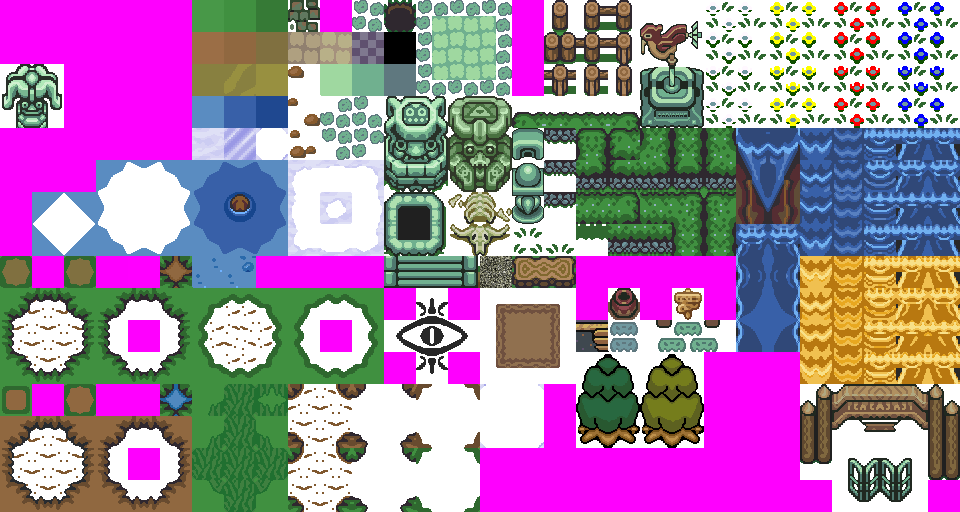
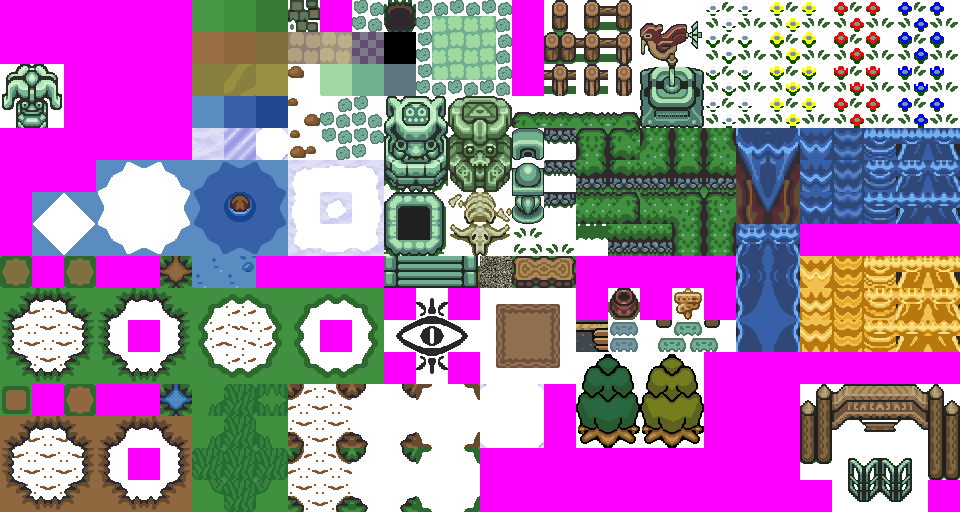
Fixed some gfx glitches in waterfall tiles. Made the waterfall animations more fluent. Added animation to golden water. Fixed a "typo" in /gmhelp_alter

Changed region(s): [[0.8125, 0.6875, 1.0, 0.75], [0.8125, 0.4375, 1.0, 0.5]]

diff --git a/src/games/stendhal/client/TileRenderer.java b/src/games/stendhal/client/TileRenderer.java
@@ -110,12 +110,12 @@ public class TileRenderer extends LayerRenderer {
 	}
 
 	private void createAnimateTiles() {
-		// Outside_0 = 0 - 478
-		// Outside_1 = 480 - 858
-		// Dungeon_0 = 860 - 1438
-		// Dungeon_1 = 1440 - 1818
-		// Interior_0 = 1820 - 2388
-		// Navigation = 2400 - 2400
+		// Outside_0 = 0 - 479
+		// Outside_1 = 480 - 959
+		// Dungeon_0 = 960 - 1439
+		// Dungeon_1 = 1440 - 1819
+		// Interior_0 = 1820 - 2389
+		// Navigation = 2390 - 2400
 		// Objects = 2400 - 2600
 		// Collision = 2600 - 2602
 		// Buildings_0 = 2602 - 2982
@@ -286,65 +286,64 @@ public class TileRenderer extends LayerRenderer {
 		addAnimatedTile(3270, new int[] { 3269, 3270, 3271, 3270 });
 		addAnimatedTile(3271, new int[] { 3269, 3270, 3271, 3270 });
 
+		// Golden water
+		addAnimatedTile(965, new int[] { 965, 995, 1025, 995 });
+		addAnimatedTile(995, new int[] { 965, 995, 1025, 995 });
+		addAnimatedTile(1025, new int[] { 965, 995, 1025, 995 });
+
+
+
 		// Waterfall start
-		addAnimatedTile(145, new int[] { 145, 175, 205, 235 });
-		addAnimatedTile(175, new int[] { 175, 205, 235, 145 });
-		addAnimatedTile(205, new int[] { 205, 235, 145, 175 });
-		addAnimatedTile(235, new int[] { 235, 145, 175, 205 });
+		addAnimatedTile(145, new int[] { 145, 175, 205 });
+		addAnimatedTile(175, new int[] { 175, 205, 235 });
+		addAnimatedTile(205, new int[] { 205, 235, 145 });
 
 		// Waterfall middle
-		addAnimatedTile(146, new int[] { 146, 176, 206, 236 });
-		addAnimatedTile(176, new int[] { 176, 206, 236, 146 });
-		addAnimatedTile(206, new int[] { 206, 236, 146, 176 });
-		addAnimatedTile(236, new int[] { 236, 146, 176, 206 });
+		addAnimatedTile(146, new int[] { 146, 176, 206 });
+		addAnimatedTile(176, new int[] { 176, 206, 236 });
+		addAnimatedTile(206, new int[] { 206, 236, 146 });
 
 		// Waterfall end
-		addAnimatedTile(147, new int[] { 147, 177, 207, 237 });
-		addAnimatedTile(177, new int[] { 177, 207, 237, 147 });
-		addAnimatedTile(207, new int[] { 207, 237, 147, 177 });
-		addAnimatedTile(237, new int[] { 237, 147, 177, 207 });
+		addAnimatedTile(147, new int[] { 147, 177, 207 });
+		addAnimatedTile(177, new int[] { 177, 207, 237 });
+		addAnimatedTile(207, new int[] { 207, 237, 147 });
 
 		// Waterfall end left
-		addAnimatedTile(148, new int[] { 148, 178, 208, 238 });
-		addAnimatedTile(178, new int[] { 178, 208, 238, 148 });
-		addAnimatedTile(208, new int[] { 208, 238, 148, 178 });
-		addAnimatedTile(238, new int[] { 238, 148, 178, 208 });
+		addAnimatedTile(148, new int[] { 148, 178, 208 });
+		addAnimatedTile(178, new int[] { 178, 208, 238 });
+		addAnimatedTile(208, new int[] { 208, 238, 148 });
 
 		// Waterfall end right
-		addAnimatedTile(149, new int[] { 149, 179, 209, 239 });
-		addAnimatedTile(179, new int[] { 179, 209, 239, 149 });
-		addAnimatedTile(209, new int[] { 209, 239, 149, 179 });
-		addAnimatedTile(239, new int[] { 239, 149, 179, 209 });
+		addAnimatedTile(149, new int[] { 149, 179, 209 });
+		addAnimatedTile(179, new int[] { 179, 209, 239 });
+		addAnimatedTile(209, new int[] { 209, 239, 149 });
 
 		// Waterfall golden start
-		addAnimatedTile(265, new int[] { 265, 295, 325, 355 });
-		addAnimatedTile(295, new int[] { 295, 325, 355, 265 });
-		addAnimatedTile(325, new int[] { 325, 355, 265, 295 });
-		addAnimatedTile(355, new int[] { 355, 265, 295, 325 });
+		addAnimatedTile(265, new int[] { 265, 295, 325 });
+		addAnimatedTile(295, new int[] { 295, 325, 355 });
+		addAnimatedTile(325, new int[] { 325, 355, 265 });
 
 		// Waterfall golden middle
-		addAnimatedTile(266, new int[] { 266, 296, 326, 356 });
-		addAnimatedTile(296, new int[] { 296, 326, 356, 266 });
-		addAnimatedTile(326, new int[] { 326, 356, 266, 296 });
-		addAnimatedTile(356, new int[] { 296, 326, 356, 266 });
+		addAnimatedTile(266, new int[] { 266, 296, 326 });
+		addAnimatedTile(296, new int[] { 296, 326, 356 });
+		addAnimatedTile(326, new int[] { 326, 356, 266 });
 
 		// Waterfall golden end
-		addAnimatedTile(267, new int[] { 267, 297, 327, 357 });
-		addAnimatedTile(297, new int[] { 297, 327, 357, 267 });
-		addAnimatedTile(327, new int[] { 327, 357, 267, 297 });
-		addAnimatedTile(357, new int[] { 357, 267, 297, 327 });
+		addAnimatedTile(267, new int[] { 267, 297, 327 });
+		addAnimatedTile(297, new int[] { 297, 327, 357 });
+		addAnimatedTile(327, new int[] { 327, 357, 267 });
 
 		// Waterfall golden end left
-		addAnimatedTile(268, new int[] { 268, 298, 328, 358 });
-		addAnimatedTile(298, new int[] { 298, 328, 358, 268 });
-		addAnimatedTile(328, new int[] { 328, 358, 268, 298 });
-		addAnimatedTile(358, new int[] { 358, 268, 298, 328 });
+		addAnimatedTile(268, new int[] { 268, 298, 328 });
+		addAnimatedTile(298, new int[] { 298, 328, 358 });
+		addAnimatedTile(328, new int[] { 328, 358, 268 });
 
 		// Waterfall golden end right
-		addAnimatedTile(269, new int[] { 269, 299, 329, 359 });
-		addAnimatedTile(299, new int[] { 299, 329, 359, 269 });
-		addAnimatedTile(329, new int[] { 329, 359, 269, 299 });
-		addAnimatedTile(359, new int[] { 359, 269, 299, 329 });
+		addAnimatedTile(269, new int[] { 269, 299, 329 });
+		addAnimatedTile(299, new int[] { 299, 329, 359 });
+		addAnimatedTile(329, new int[] { 329, 359, 269 });
+
+
 
 		// Golden Teleport
 		addAnimatedTile(1443, new int[] { 1443, 1444, 1445 });

diff --git a/src/games/stendhal/client/gui/StendhalChatLineListener.java b/src/games/stendhal/client/gui/StendhalChatLineListener.java
@@ -437,7 +437,7 @@ public class StendhalChatLineListener implements ActionListener, KeyListener {
 						"/alter <player> <attrib> <mode> <value> \tChange by SETting, ADDing or SUBtracting the stat of player",
 						"Some of the values that can be changed is: atk, atk_xp, def, def_xp, xp, outfit",
 						"When modifying the outfit SET a 8 digit number, where the first 2 is the HAIR, second 2 is HEAD, third 2 is OUTFIT and last 2 is BODY",
-						"Example: /alter player outfit set 12109901",
+						"Example: /alter player outfit set 12999901",
 						"This example will make the player 'player' look like danter." };
 				for (String line : lines) {
 					StendhalClient.get().addEventLine(line, Color.gray);
